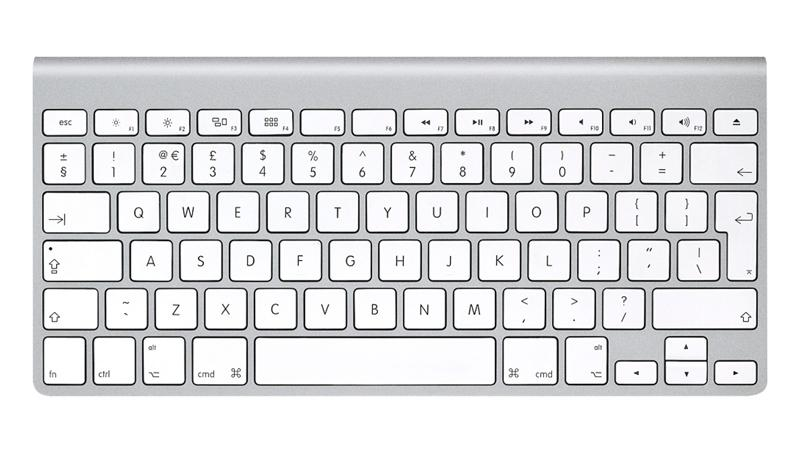
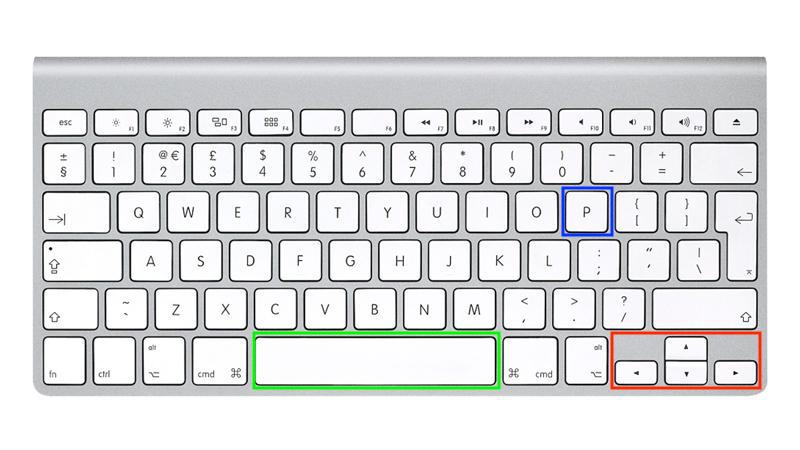
añadida nueva arma que dispara en los 4 lados, pero tiene fallos a la hora de elimnar del canvas y con los limites de este

Changed region(s): [[0.3125, 0.7156, 0.625, 0.8711], [0.75, 0.7156, 0.9688, 0.8711], [0.6875, 0.4044, 0.7812, 0.5289]]

diff --git a/js/game.js b/js/game.js
@@ -10,12 +10,14 @@ class Game {
     this.bullet;
     this.enemies = [];
     this.bullets = [];
+    this.bulletsAll = [];
     this.highScore;
     this.bulletsEnemies = [];
     this.isGameOver = false;
     this.points = 0;
     this.bulletOn = false;
     this.pause = false;
+    this.weapon = false;
   }
 
   startLoop(){
@@ -41,6 +43,14 @@ class Game {
         this.bullets.push(new Bullet(this.canvas, (this.player.x + this.player.width), (this.player.y + this.player.height/2)))
         this.bulletOn = false;
       }
+      if (this.weapon){
+        this.bulletsAll.push(new BulletAllDirections(this.canvas, (this.player.x + this.player.width/2), (this.player.y + this.player.height/2), (this.player.x + this.player.width),this.player.x, this.player.y, (this.player.y + this.player.height)))
+        this.bulletsAll.push(new BulletAllDirections(this.canvas, (this.player.x + this.player.width/2), (this.player.y + this.player.height/2), (this.player.x + this.player.width),this.player.x, this.player.y, (this.player.y + this.player.height)))
+        this.bulletsAll.push(new BulletAllDirections(this.canvas, (this.player.x + this.player.width/2), (this.player.y + this.player.height/2), (this.player.x + this.player.width),this.player.x, this.player.y, (this.player.y + this.player.height)))
+        this.bulletsAll.push(new BulletAllDirections(this.canvas, (this.player.x + this.player.width/2), (this.player.y + this.player.height/2), (this.player.x + this.player.width),this.player.x, this.player.y, (this.player.y + this.player.height)))
+        this.weapon = false;
+      }
+      
       if (!this.pause){
       this.checkAllCollisions();
       this.updateCanvas();
@@ -58,6 +68,9 @@ class Game {
     this.space.update()
     this.bullets.forEach((bullet)=>{
       bullet.update();
+    })
+    this.bulletsAll.forEach((bullet)=>{
+      bullet.update()
     })
     this.enemies.forEach((enemy) => {
       enemy.update(this.points);
@@ -78,6 +91,9 @@ class Game {
     this.ctx.fillText(`Lives: ${this.player.lives}`,this.canvas.width/2 -50, this.canvas.height -10);
     this.player.drawPlayer()
     this.bullets.forEach((bullet)=>{
+      bullet.drawBullet();
+    })
+    this.bulletsAll.forEach((bullet)=>{
       bullet.drawBullet();
     })
     this.enemies.forEach((enemy)=>{
@@ -120,18 +136,60 @@ class Game {
         
       }
     })
+    this.bulletsAll.forEach((bullet, indexBullet) => {
+      this.enemies.forEach((enemy, indexEnemy) => {
+        if (bullet.checkCollisionEnemyRigth(enemy)){
+          this.points += 25;
+          this.enemies.splice(indexEnemy, 1);
+          console.log("primer if")
+          this.bulletsAll.splice(indexBullet, 1);
+        } else if (bullet.checkCollisionEnemyLeft(enemy)){
+          this.points += 25;
+          this.enemies.splice(indexEnemy, 1);
+          console.log("segundo if")
+          this.bulletsAll.splice(indexBullet, 1);
+        } else if (bullet.checkCollisionEnemyTop(enemy)){
+          this.points += 25;
+          this.enemies.splice(indexEnemy, 1);
+          console.log("tercero if")
+          this.bulletsAll.splice(indexBullet, 1);
+        } else if (bullet.checkCollisionEnemyBottom(enemy)){
+          this.points += 25;
+          this.enemies.splice(indexEnemy, 1);
+          console.log("cuarto if")
+          this.bulletsAll.splice(indexBullet, 1);
+        };
+      });
+    });
     this.enemies.forEach((enemy, index) => {
       if (enemy.x - enemy.width <=0) {
-        this.enemies.splice(enemy, index)
+        this.enemies.splice(index, 1)
       }
     });
     this.bulletsEnemies.forEach((bullet, indexBullet) => {
       if (bullet.x - bullet.width <=0){
-        this.bulletsEnemies.splice(bullet, indexBullet)
+        this.bulletsEnemies.splice(indexBullet, 1)
       }
     });
-    console.log(this.enemies)
-    console.log(this.bulletsEnemies)
+    this.bulletsAll.forEach((bullet, indexBullet) => {
+      if (bullet.xLeft <=0){
+        console.log("ha salido de los limites izq")
+        this.bulletsAll.splice(indexBullet, 1)
+      } else if(bullet.xRigth >= this.canvas.width){
+        console.log("ha salido de los limites der")
+        this.bulletsAll.splice(indexBullet, 1)
+      } else if(bullet.yTop - bullet.height <= 0){
+        console.log("ha salido de los limites top")
+        this.bulletsAll.splice(indexBullet, 1)
+      } else if(bullet.yBottom >= this.canvas.heigh){
+        console.log("ha salido de los limites bottom")
+        this.bulletsAll.splice(indexBullet, 1)
+      }
+    });
+
+    console.log("newWeapon:",this.bulletsAll)
+    // console.log("enemies:",this.enemies)
+    // console.log("enemiesWeapon:",this.bulletsEnemies)
   };
   gameOverCallback(callback){
     this.onGameOver = callback;
@@ -147,3 +205,13 @@ class Game {
     }
   }
 }
+
+
+
+
+
+
+// this.bulletsAll.push(new BulletAllDirections(this.canvas, (this.player.x + this.player.width), (this.player.y + this.player.height/2)))
+// this.bulletsAll.push(new BulletAllDirections(this.canvas, (this.player.x), (this.player.y + this.player.height/2)))
+// this.bulletsAll.push(new BulletAllDirections(this.canvas, (this.player.x + this.player.width/2), (this.player.y)))
+// this.bulletsAll.push(new BulletAllDirections(this.canvas, (this.player.x + this.player.width/2), (this.player.y + this.player.height)))

diff --git a/js/bulletAllDirections.js b/js/bulletAllDirections.js
@@ -1,0 +1,91 @@
+"use-strict"
+
+class BulletAllDirections {
+  constructor(canvas, x, y, xRigth, xLeft, yTop, yBottom){
+    this.canvas = canvas;
+    this.ctx = this.canvas.getContext("2d");
+    this.xRigth = xRigth;
+    this.xLeft = xLeft;
+    this.yTop = yTop;
+    this.yBottom = yBottom;
+    this.width = 100
+    this.height = 20
+    this.direction = 1
+    this.speed = 4
+    this.x = x;
+    this.y = y
+  }
+  update(){
+    this.xRigth = this.xRigth + this.direction * this.speed;
+    this.xLeft = this.xLeft - this.direction  * this.speed;
+    this.yTop = this.yTop - this.direction * this.speed;
+    this.yBottom = this.yBottom + this.direction  * this.speed;
+  }
+  drawBullet(){
+    let imgBullet = new Image()
+    imgBullet.src = "images/laserchuloazul.png"
+    let imgBulletIzq = new Image()
+    imgBulletIzq.src = "images/laserchuloazulizq.png"
+    let imgBulletTop = new Image()
+    imgBulletTop.src = "images/laserchuloazultop.png"
+    let imgBulletBottom = new Image()
+    imgBulletBottom.src = "images/laserchuloazulbottom.png"
+
+    this.ctx.drawImage(imgBullet, this.xRigth - this.width/2, this.y - this.height/2, this.width, this.height)
+    this.ctx.drawImage(imgBulletIzq, this.xLeft - this.width/2, this.y - this.height/2, this.width, this.height)
+    this.ctx.drawImage(imgBulletTop, this.x, this.yTop - this.width/2, this.height, this.width)
+    this.ctx.drawImage(imgBulletBottom, this.x, this.yBottom - this.width/2, this.height, this.width)
+  }
+  checkCollisionEnemyRigth(enemy){
+    const collideRRight = this.xRigth + this.width / 2 > enemy.x - enemy.width / 2;
+    const collideRLeft = this.xRigth - this.width / 2 < enemy.x + enemy.width / 2;
+    const collideRTop = this.y + this.height / 2 > enemy.y;
+    const collideRBottom = this.y - this.height / 2 < enemy.y + enemy.height;
+    if (collideRRight && collideRLeft && collideRTop && collideRBottom) {
+      let audio = new Audio("sounds/003576076_prev.mp3");
+      audio.play();
+console.log("rigth")
+      return true;
+    }
+    return false;
+  }
+  checkCollisionEnemyLeft(enemy){
+    const collideLRight = this.xLeft + this.width / 2 > enemy.x - enemy.width / 2;
+    const collideLLeft = this.xLeft - this.width / 2 < enemy.x + enemy.width / 2;
+    const collideLTop = this.y + this.height / 2 > enemy.y;
+    const collideLBottom = this.y - this.height / 2 < enemy.y + enemy.height;
+    if (collideLRight && collideLLeft && collideLTop && collideLBottom) {
+      let audio = new Audio("sounds/003576076_prev.mp3");
+      audio.play();
+console.log("left")
+      return true;
+    }
+    return false;
+  }
+  checkCollisionEnemyTop(enemy){
+    const collideTRight = this.x + this.width / 2 > enemy.x - enemy.width / 2;
+    const collideTLeft = this.x - this.width / 2 < enemy.x + enemy.width / 2;
+    const collideTTop = this.yTop + this.height / 2 > enemy.y;
+    const collideTBottom = this.yTop - this.height / 2 < enemy.y + enemy.height;
+    if (collideTRight && collideTLeft && collideTTop && collideTBottom) {
+      let audio = new Audio("sounds/003576076_prev.mp3");
+      audio.play();
+console.log("top")
+      return true;
+    }
+    return false;
+  }
+  checkCollisionEnemyBottom(enemy){
+    const collideBRight = this.x + this.width / 2 > enemy.x - enemy.width / 2;
+    const collideBLeft = this.x - this.width / 2 < enemy.x + enemy.width / 2;
+    const collideBTop = this.yBottom + this.height / 2 > enemy.y;
+    const collideBBottom = this.yBottom - this.height / 2 < enemy.y + enemy.height;
+    if (collideBRight && collideBLeft && collideBTop && collideBBottom) {
+      let audio = new Audio("sounds/003576076_prev.mp3");
+      audio.play();
+console.log("bottom")
+      return true;
+    }
+    return false;
+  }
+}

diff --git a/js/main.js b/js/main.js
@@ -7,6 +7,7 @@ const main = () => {
   };
   let buildSplashScreen = () => {
 buildDom(`
+<audio src="sounds/starwras-guerra-de-las-galaxias-peliculas-.mp3" ></audio>
 <h1>STAR WARS<sub>IronHack Wars</sub></h1>
 <div id="titles">
   <div id="titlecontent">
@@ -32,22 +33,35 @@ buildDom(`
         <div class="codeBy"><p>Code by Javier Gómez</p></div>
 </section>
       `)
+
+   setTimeout(() => {
+    document.querySelector("audio").play();
+    document.querySelector("audio").volume = 0.1;
+   }, 3000);
+   
     document.body.style.backgroundImage = "none"
     let startButton = document.querySelector(".button");
     startButton.addEventListener("click", buildGameScreen);
     let controlButton = document.querySelector(".controls");
     controlButton.addEventListener("click", buildControls);
+
   };
   let buildControls = () => {
     buildDom(`
     <section class="controls-screen">
       <div class="howToPlay">Keyboard controls</div>
-     
-      <img  id="keyboard-controls" src="images/control_bien-removebg-preview.png" alt="">
-    
-      <div class="explain"></div>
+      <img  id="keyboard-controls" src="images/control_bien-removebg-preview (1).png" alt="">
+      <div class="explain">
+      <p id="move">Move</p>
+      <p id="shoot">Shoot</p>
+      <p id="pause">Pause/Continue</p>
+      </div>
+      <div class="backMenu">
+      <a href="#">Back</a>
+      </div>
     </section>
     `)
+    document.querySelector(".backMenu").addEventListener("click", buildSplashScreen)
   };
 
   let buildGameScreen = () => {
@@ -91,6 +105,13 @@ buildDom(`
         audio.play();
       }
     }
+    const bulletAllDirections = (event) => {
+      if (event.code === "KeyX"){
+        game.weapon = true;
+        let audio = new Audio("sounds/007132157_prev.mp3");
+        audio.play();
+      }
+    }
     function togglePause(){
       let canvasPause = document.querySelector("canvas");
       let ctxPause = canvasPause.getContext("2d")
@@ -115,6 +136,7 @@ buildDom(`
     document.addEventListener("keydown", setPlayerDirectionY);
     document.addEventListener("keydown", setPlayerDirectionX);
     document.addEventListener("keydown", createBulletPlayer);
+    document.addEventListener("keydown", bulletAllDirections);
   };
   let buildGameOver = (score) => {
     buildDom(`

diff --git a/style/style.css b/style/style.css
@@ -18,7 +18,7 @@ main{
   font-family: "Droid Sans", arial, verdana, sans-serif;
   position: relative;
   color: #ff6;
-  margin-top: 17%;
+  margin-top: 22%;
   margin-left: 1%;
   animation: code 25s ease;
 }
@@ -32,7 +32,7 @@ main{
   position:relative;
   display: flex;
   justify-content: center;
-  margin-top: 25%;
+  margin-top: 20%;
   animation: boton 25s ease-out;
 }
 @keyframes boton {
@@ -348,7 +348,7 @@ h1 sub{
 }
 #keyboard-controls{
   
-  margin-top: 6%;
+  margin-top: 2%;
   margin-left: 33%;
 }
 
@@ -358,5 +358,47 @@ h1 sub{
   color: #ff6;
   font-size: 5em;
   text-align: center;
-  margin-top: 5%;
+  margin-top: 3%;
+}
+.backMenu{
+  position:relative;
+  display: flex;
+  
+  margin-top: 18%;
+  margin-left: 1%;
+  animation: control 1s ease-out;
+}
+.backMenu a{
+  color:white;
+  font-family:"Droid Sans", arial, verdana, sans-serif;
+  font-weight:bold;
+  font-size:36px;
+  text-align: center;
+  text-decoration:none;
+  background-color:black;
+  display:block;
+  position:relative;
+  padding:20px 40px;
+  border: 1px solid white;
+}
+.explain{
+  display: flex;
+  justify-content: center;
+} 
+.explain p {
+  font-family:"Droid Sans", arial, verdana, sans-serif;
+  width: 200px;
+  text-align: center;
+  margin-left: 2%;
+  padding: 10px 0 10px 0;
+  color: white;
+}
+#move{
+  border: 2px solid red;
+}
+#pause{
+  border: 2px solid blue;
+}
+#shoot{
+border: 2px solid green;
 }

diff --git a/index.html b/index.html
@@ -15,8 +15,8 @@
   <script src="js/player.js"></script>
   <script src="js/bullet.js"></script>
   <script src="js/bulletEnemies.js"></script>
+  <script src="js/bulletAllDirections.js"></script>
   <script src="js/game.js"></script>
   <script src="js/main.js"></script>
 </body>
 </html>
-<img src="" alt="">

diff --git a/readme.md b/readme.md
@@ -176,8 +176,15 @@ Pendientes:
    //Añadir boton de controles
    //Hacer que con el tiempo, las naves vayan mas rapido y salgan más
 Movimiento de la nave mas fluido
-Añadir sonido inicial juego - BSO
+   //Añadir sonido inicial juego - BSO
    //Pintar pausa cuando este parado el juego y pulsar p para reanudar
+   Añadir nuevos enemigos
+   Cambiar fondo con el cambio de nivel
+   Nuevas armas
+
+
+   No se eliminan de la pantalla cuando derriban enemigo, pero si del array.
+   Se eleminan todos cuando uno sale de los limites
 
 
 
